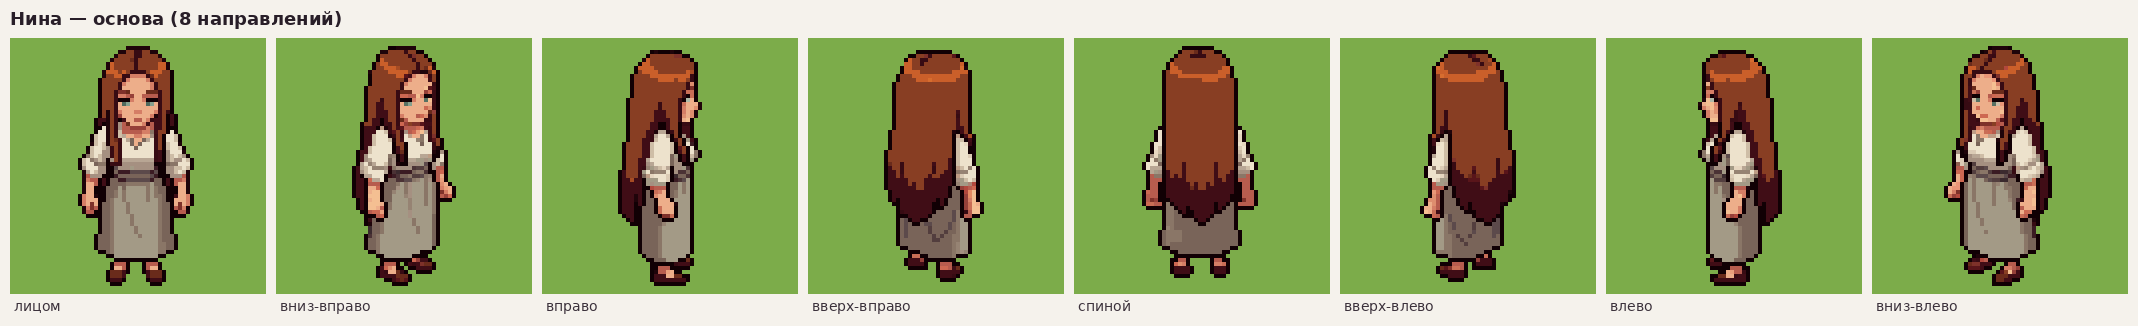
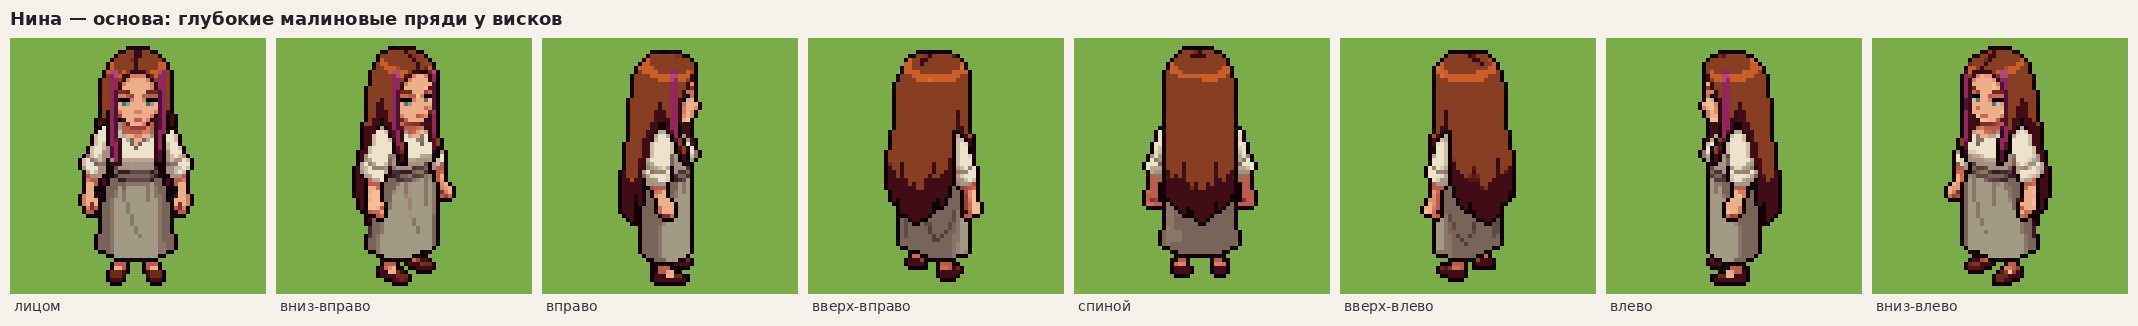
Нина: глубокие малиновые пряди у висков во всех направлениях
Claude-Session: https://claude.ai/code/session_01Vk2GzkFks5VW2iDabaZdf6

diff --git a/design/pixellab/nina-base/nina_strands.py b/design/pixellab/nina-base/nina_strands.py
@@ -1,0 +1,25 @@
+# Малиновые пряди у висков Нины (запуск из scratchpad, исходники — pl/nina/ и pl/nina_eyes.png): прямые пряди в колонках, подобранных для каждого направления по краю лица.
+# Красятся только пиксели волос; лицо, кожа, контур и одежда не меняются.
+import os
+from PIL import Image
+H = lambda h: tuple(int(h[i:i+2], 16) for i in (0, 2, 4))
+RASP = {H('ca5f2a'): H('b04a72'), H('883e23'): H('92285a'), H('7e312a'): H('7e2250'),
+        H('6a2b1b'): H('6c1c46'), H('370b13'): H('4e1232'), H('400d16'): H('4e1232'), H('1f040a'): H('340a22')}
+COLS = {   # колонки прядей (ближняя к зрителю — 2 колонки, дальняя вполоборота — 1)
+    "south": [25, 26, 37, 38],
+    "south-east": [29, 30, 39],
+    "east": [32, 33],
+    "west": [29, 30],
+    "south-west": [23, 32, 33],
+}
+DIRS = ["south", "south-east", "east", "north-east", "north", "north-west", "west", "south-west"]
+os.makedirs('pl/nina_final', exist_ok=True)
+for d in DIRS:
+    src = 'pl/nina_eyes.png' if d == 'south' else f'pl/nina/{d}.png'
+    im = Image.open(src).convert('RGBA'); px = im.load(); n = 0
+    for y in range(8, 31):
+        for x in COLS.get(d, []):
+            r, g, b, a = px[x, y]
+            if a and (r, g, b) in RASP:
+                px[x, y] = RASP[(r, g, b)] + (a,); n += 1
+    im.save(f'pl/nina_final/{d}.png'); print(d, n)

diff --git a/knowledge/owner-decisions.md b/knowledge/owner-decisions.md
@@ -43,7 +43,7 @@
 - 21.10 — силуэт Вани утверждён (рост, пропорции, фигура). Позже возможны поправки только лица и причёски (верхняя часть).
 - 21.10 — палитра для персонажей из PixelLab — вариант «А»: цвета остаются как нарисовал PixelLab, при сборке атласа меняется только чёрный контур на тёмно-коричневый (ряд `outline`); палитру 2D потом расширить оттенками утверждённых персонажей. Земля и постройки — по-прежнему строго в палитре.
 - 21.10 — Нину делать так же, как Ваню: по описанию (create-character-v3), а не дорогим «в стиле Вани».
-- 21.10 — основа Нины утверждена: «Нина 1», прямые распущенные волосы до середины туловища с рыжими прядями у висков, первоначальное лицо, серо-зелёные глаза (`design/pixellab/nina-base/final/`). Правки лица через ИИ владельцу не понравились — мелкие правки лица делать вручную по пикселям.
+- 21.10 — основа Нины утверждена: «Нина 1», прямые распущенные волосы до середины туловища с рыжими прядями у висков, первоначальное лицо, серо-зелёные глаза (`design/pixellab/nina-base/final/`). У висков — две симметричные пряди глубокого малинового цвета (добавлены вручную). Правки лица через ИИ владельцу не понравились — мелкие правки лица делать вручную по пикселям.
 - 20.10 — садовые деревья, которые сажает игрок, занимают 2×2 клетки по центру, на стыке четырёх клеток. См. [[item]].
 - 20.10 — рисунки будут перерисованы в PixelLab в стилистике спрайтов Ragnarok Online. Сначала пробная партия в двух размерах — 32 и 64 пикселя на клетку (Ваня, трава, дерево), выбор — после просмотра на телефоне. Инструкция — `design/pixellab/README.md`.
 - 20.10 — дома с комнатами — с прозрачной крышей; для этого локации и дом героя станут больше (в доме будут предметы интерьера). См. [[npc]].

diff --git a/design/characters.md b/design/characters.md
@@ -36,7 +36,7 @@
 
 ## Нина
 
-**Основа утверждена 21.10.2026** — `design/pixellab/nina-base/final/` (64×64, 8 направлений; персонаж PixelLab `0806c4f5-604d-457a-a9e9-d61922463964`). Путь: «Нина 1» → правка причёски (прямые распущенные волосы до середины туловища, рыжие пряди у висков; `nina-base/hair/nh1.png`) → первоначальное лицо, глаза перекрашены вручную в серо-зелёный (4 пикселя радужки; `nina-base/face/nina_eyes.png`) → разворот в 8 направлений. Причёска, а не коса — описание ниже про косу устарело.
+**Основа утверждена 21.10.2026** — `design/pixellab/nina-base/final/` (64×64, 8 направлений; персонаж PixelLab `0806c4f5-604d-457a-a9e9-d61922463964`). Путь: «Нина 1» → правка причёски (прямые распущенные волосы до середины туловища, рыжие пряди у висков; `nina-base/hair/nh1.png`) → первоначальное лицо, глаза перекрашены вручную в серо-зелёный (4 пикселя радужки; `nina-base/face/nina_eyes.png`) → разворот в 8 направлений → глубокие малиновые пряди у висков, симметричные, нарисованы вручную по пикселям (`nina-base/nina_strands.py`, ряд `#b04a72`…`#340a22`). Причёска, а не коса — описание ниже про косу устарело.
 
 
 - **Лицо и волосы:** каштановые длинные волосы с рыжими прядями по бокам, у висков; коса через плечо. Тёплое улыбчивое лицо.
